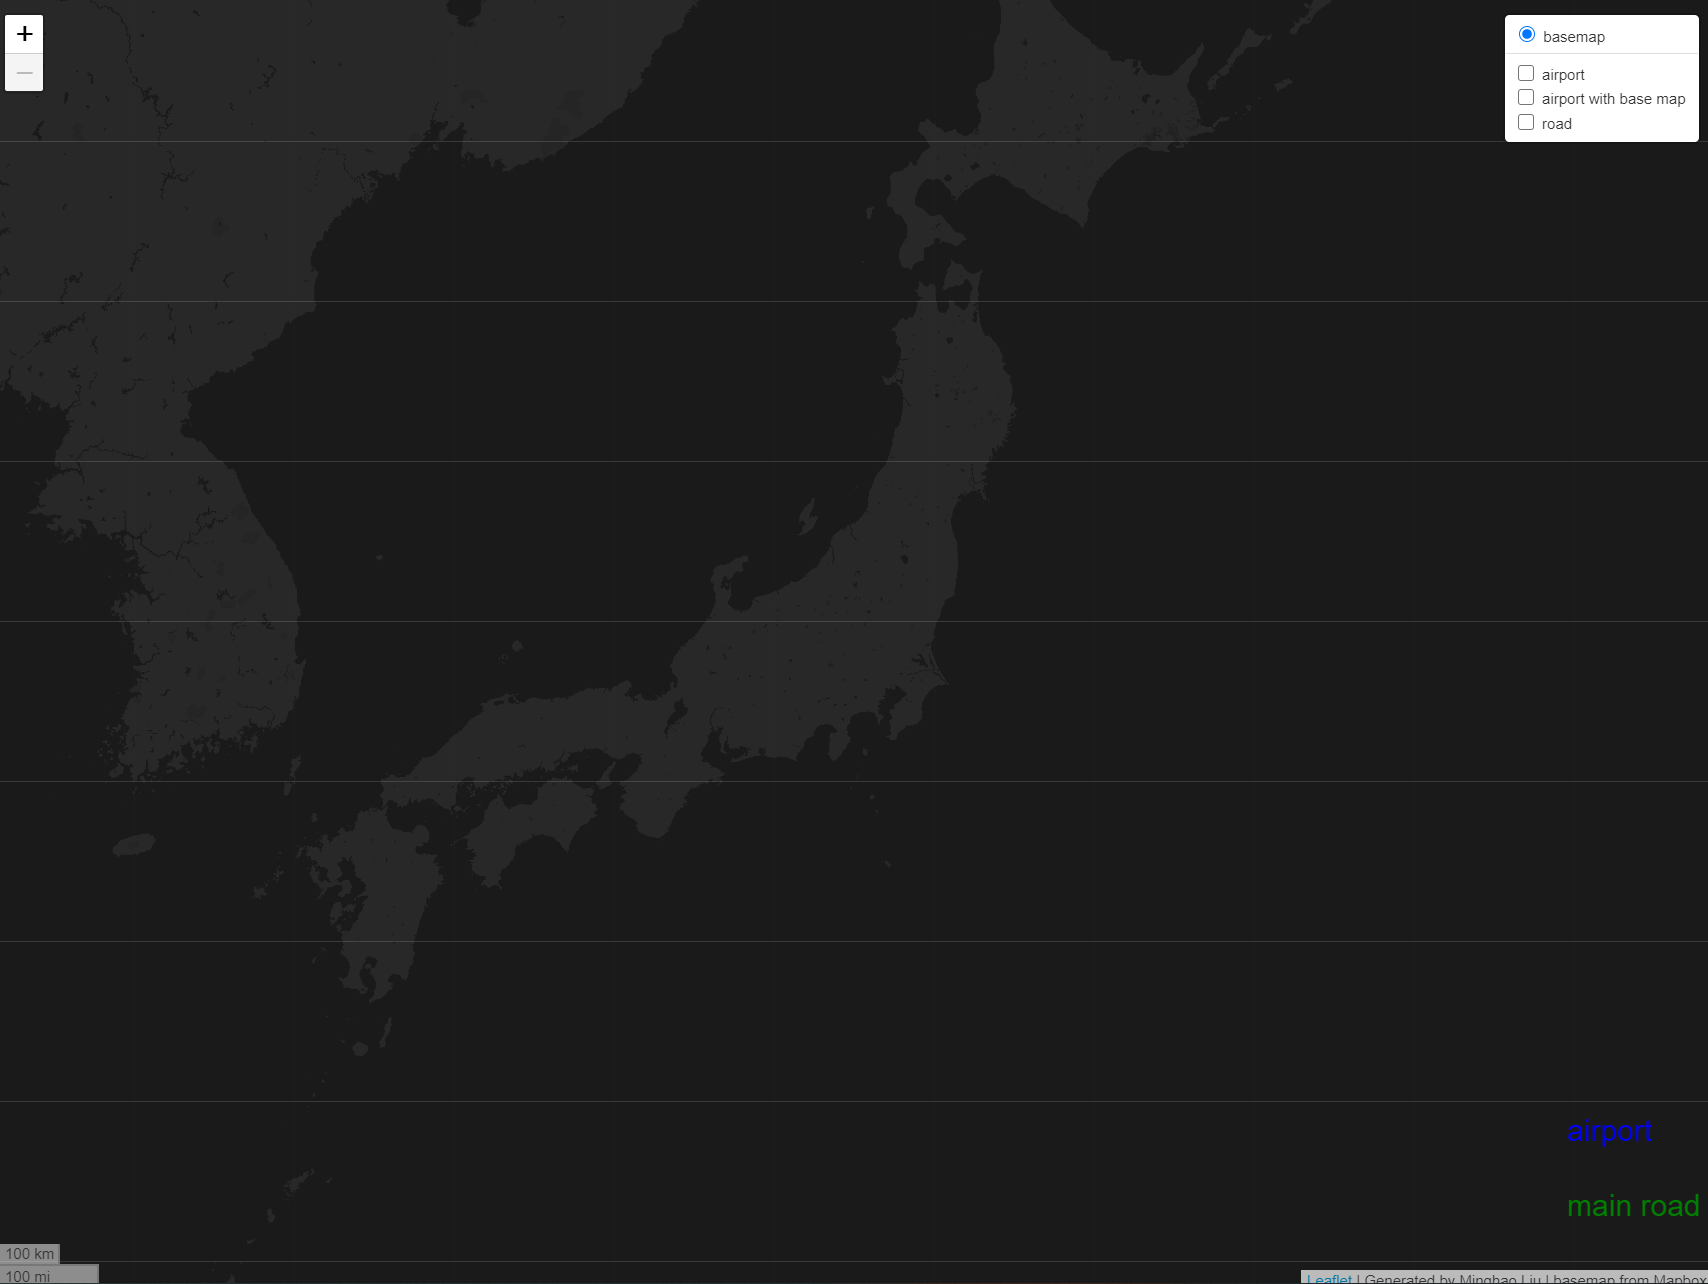
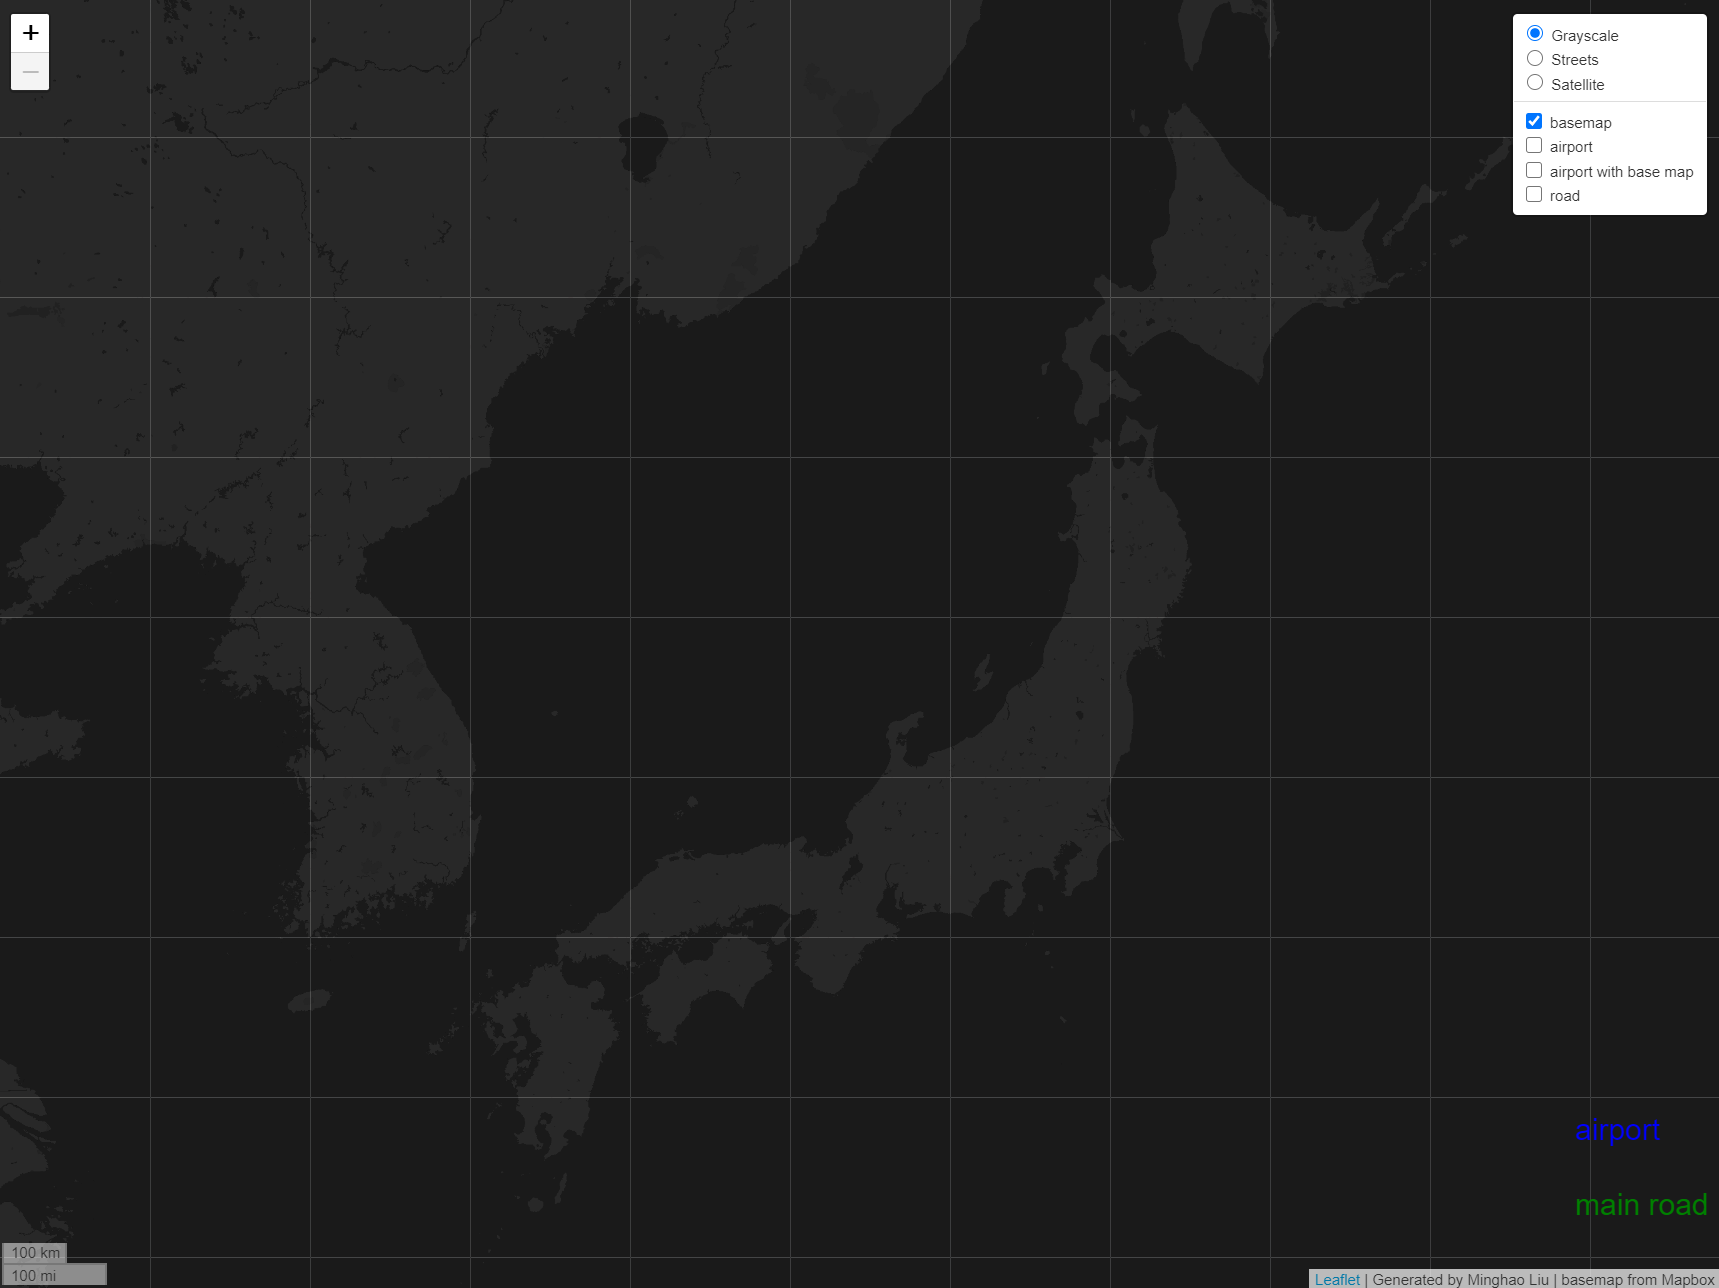
v4

diff --git a/index.html b/index.html
@@ -23,6 +23,10 @@
       minZoom: 6
     }).setView([35.6762, 139.6503], 8);
 
+    var grayscale = L.tileLayer('http://{s}.basemaps.cartocdn.com/light_nolabels/{z}/{x}/{y}@2x.png').addTo(map);
+   var streets = L.tileLayer('http://{s}.basemaps.cartocdn.com/rastertiles/voyager_nolabels/{z}/{x}/{y}@2x.png');
+   var satellite = L.tileLayer('https://server.arcgisonline.com/ArcGIS/rest/services/World_Imagery/MapServer/tile/{z}/{y}/{x}@2x');
+
     var basemap = L.tileLayer('tile/basemap/{z}/{x}/{y}.png', {
       attribution: 'Generated by Minghao Liu | basemap from Mapbox',
       detectRetina: true
@@ -44,10 +48,13 @@
     });
 
     var baseLayers = {
-      'basemap': basemap,
+      'Grayscale': grayscale,
+      'Streets': streets,
+      'Satellite': satellite
     };
 
     var overlays = {
+      'basemap': basemap,
       "airport": airport,
       "airport with base map": airport_base,
       "road" : road
